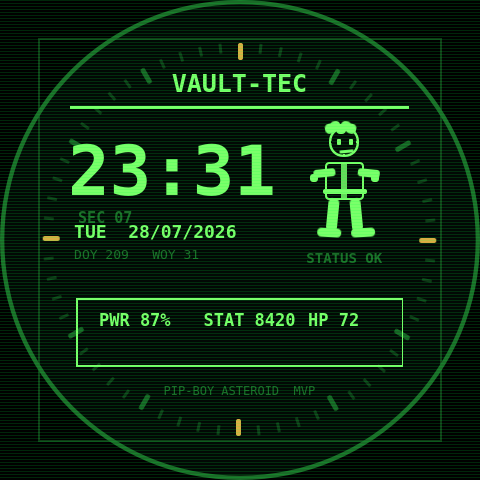
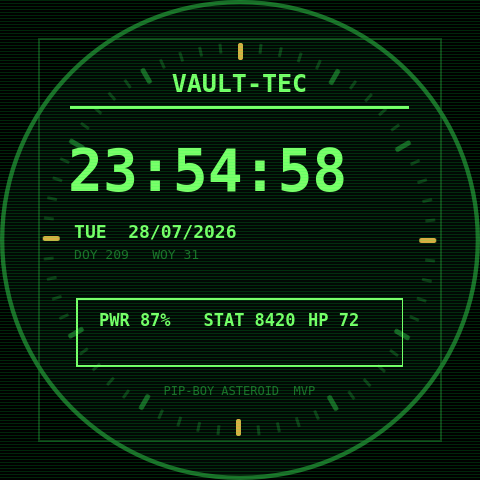
Remove mascot from A Classic face

Changed region(s): [[0.125, 0.25, 0.8125, 0.5], [0.625, 0.5312, 0.8125, 0.5625], [0.1562, 0.4375, 0.2812, 0.4688]]

diff --git a/catfish-pipboy/usr/share/asteroid-launcher/watchfaces/catfish-pipboy.qml b/catfish-pipboy/usr/share/asteroid-launcher/watchfaces/catfish-pipboy.qml
@@ -109,29 +109,15 @@ Item {
                 id: timeText
                 x: safe.width * 0.075
                 y: safe.height * 0.215
-                width: safe.width * 0.48
+                width: safe.width * 0.84
                 height: safe.height * 0.23
                 color: app.phosphor
-                text: Fmt.time24(app.now, false)
+                text: Fmt.time24(app.now, !app.ambientMode)
                 horizontalAlignment: Text.AlignLeft
                 verticalAlignment: Text.AlignVCenter
                 font {
                     family: "monospace"
-                    pixelSize: app.ambientMode ? safe.height * 0.185 : safe.height * 0.172
-                    bold: true
-                    letterSpacing: 0
-                }
-            }
-
-            Text {
-                x: safe.width * 0.10
-                y: safe.height * 0.425
-                width: safe.width * 0.28
-                color: app.phosphorDim
-                text: app.ambientMode ? "" : "SEC " + Fmt.two(app.now.getSeconds())
-                font {
-                    family: "monospace"
-                    pixelSize: safe.height * 0.036
+                    pixelSize: app.ambientMode ? safe.height * 0.185 : safe.height * 0.145
                     bold: true
                     letterSpacing: 0
                 }
@@ -160,33 +146,6 @@ Item {
                 font {
                     family: "monospace"
                     pixelSize: safe.height * 0.033
-                    letterSpacing: 0
-                }
-            }
-
-            PipboyCharacter {
-                x: safe.width * 0.64
-                y: safe.height * 0.205
-                width: safe.width * 0.24
-                height: safe.height * 0.31
-                fg: app.phosphor
-                dim: app.phosphorDim
-                ambientMode: app.ambientMode
-                state: "walking"
-                opacity: app.ambientMode ? 0.0 : 1.0
-            }
-
-            Text {
-                x: safe.width * 0.65
-                y: safe.height * 0.525
-                width: safe.width * 0.22
-                color: app.phosphorDim
-                text: app.ambientMode ? "" : "STATUS OK"
-                horizontalAlignment: Text.AlignHCenter
-                font {
-                    family: "monospace"
-                    pixelSize: safe.height * 0.034
-                    bold: true
                     letterSpacing: 0
                 }
             }

diff --git a/qml/Main.qml b/qml/Main.qml
@@ -109,29 +109,15 @@ Item {
                 id: timeText
                 x: safe.width * 0.075
                 y: safe.height * 0.215
-                width: safe.width * 0.48
+                width: safe.width * 0.84
                 height: safe.height * 0.23
                 color: app.phosphor
-                text: Fmt.time24(app.now, false)
+                text: Fmt.time24(app.now, !app.ambientMode)
                 horizontalAlignment: Text.AlignLeft
                 verticalAlignment: Text.AlignVCenter
                 font {
                     family: "monospace"
-                    pixelSize: app.ambientMode ? safe.height * 0.185 : safe.height * 0.172
-                    bold: true
-                    letterSpacing: 0
-                }
-            }
-
-            Text {
-                x: safe.width * 0.10
-                y: safe.height * 0.425
-                width: safe.width * 0.28
-                color: app.phosphorDim
-                text: app.ambientMode ? "" : "SEC " + Fmt.two(app.now.getSeconds())
-                font {
-                    family: "monospace"
-                    pixelSize: safe.height * 0.036
+                    pixelSize: app.ambientMode ? safe.height * 0.185 : safe.height * 0.145
                     bold: true
                     letterSpacing: 0
                 }
@@ -160,33 +146,6 @@ Item {
                 font {
                     family: "monospace"
                     pixelSize: safe.height * 0.033
-                    letterSpacing: 0
-                }
-            }
-
-            PipboyCharacter {
-                x: safe.width * 0.64
-                y: safe.height * 0.205
-                width: safe.width * 0.24
-                height: safe.height * 0.31
-                fg: app.phosphor
-                dim: app.phosphorDim
-                ambientMode: app.ambientMode
-                state: "walking"
-                opacity: app.ambientMode ? 0.0 : 1.0
-            }
-
-            Text {
-                x: safe.width * 0.65
-                y: safe.height * 0.525
-                width: safe.width * 0.22
-                color: app.phosphorDim
-                text: app.ambientMode ? "" : "STATUS OK"
-                horizontalAlignment: Text.AlignHCenter
-                font {
-                    family: "monospace"
-                    pixelSize: safe.height * 0.034
-                    bold: true
                     letterSpacing: 0
                 }
             }

diff --git a/docs/design-brief.md b/docs/design-brief.md
@@ -22,10 +22,7 @@ animation.
 
 User-requested A Classic adjustments:
 - Replace the repeated top `PWR STAT RAD` labels with `VAULT-TEC`.
-- Keep seconds away from the character by rendering seconds as a small separate
-  `SEC NN` readout.
-- Use a more character-like original QML mascot silhouette, inspired by the
-  walking cartoon reference but not copied from it.
+- Remove the character entirely and return seconds to the main clock line.
 - Lower status strip: `PWR` battery percent, `STAT` steps, `HP` heart rate.
 
 ## Rendered MVP Preview

diff --git a/README.md b/README.md
@@ -9,7 +9,7 @@ on the target image.
 
 - Round 480x480-first layout using `safeSize = min(width, height)`.
 - Large 24h time, date, day-of-year, and week-of-year.
-- Pip-Boy-like CRT HUD styling with scanlines and simple geometric character.
+- Pip-Boy-like CRT HUD styling with scanlines.
 - `VAULT-TEC` header and lower `PWR` / `STAT` / `HP` status strip.
 - `ambientMode` property for reduced seconds/animation/scanline behavior.
 - Qt Creator project file: `pip-boy-asteroidos.qmlproject`.

diff --git a/docs/mvp.md b/docs/mvp.md
@@ -19,7 +19,6 @@
 - Date, day-of-year, week-of-year.
 - Header: `VAULT-TEC`.
 - Status strip: `PWR` battery percent, `STAT` daily steps, `HP` heart rate.
-- Lightweight geometric character in active mode.
 - Scanline overlay in active mode.
 - Ambient-safe visual mode property with seconds/animation removed.
 - QML-only layout using `safeSize = min(width, height)` to avoid drift outside
